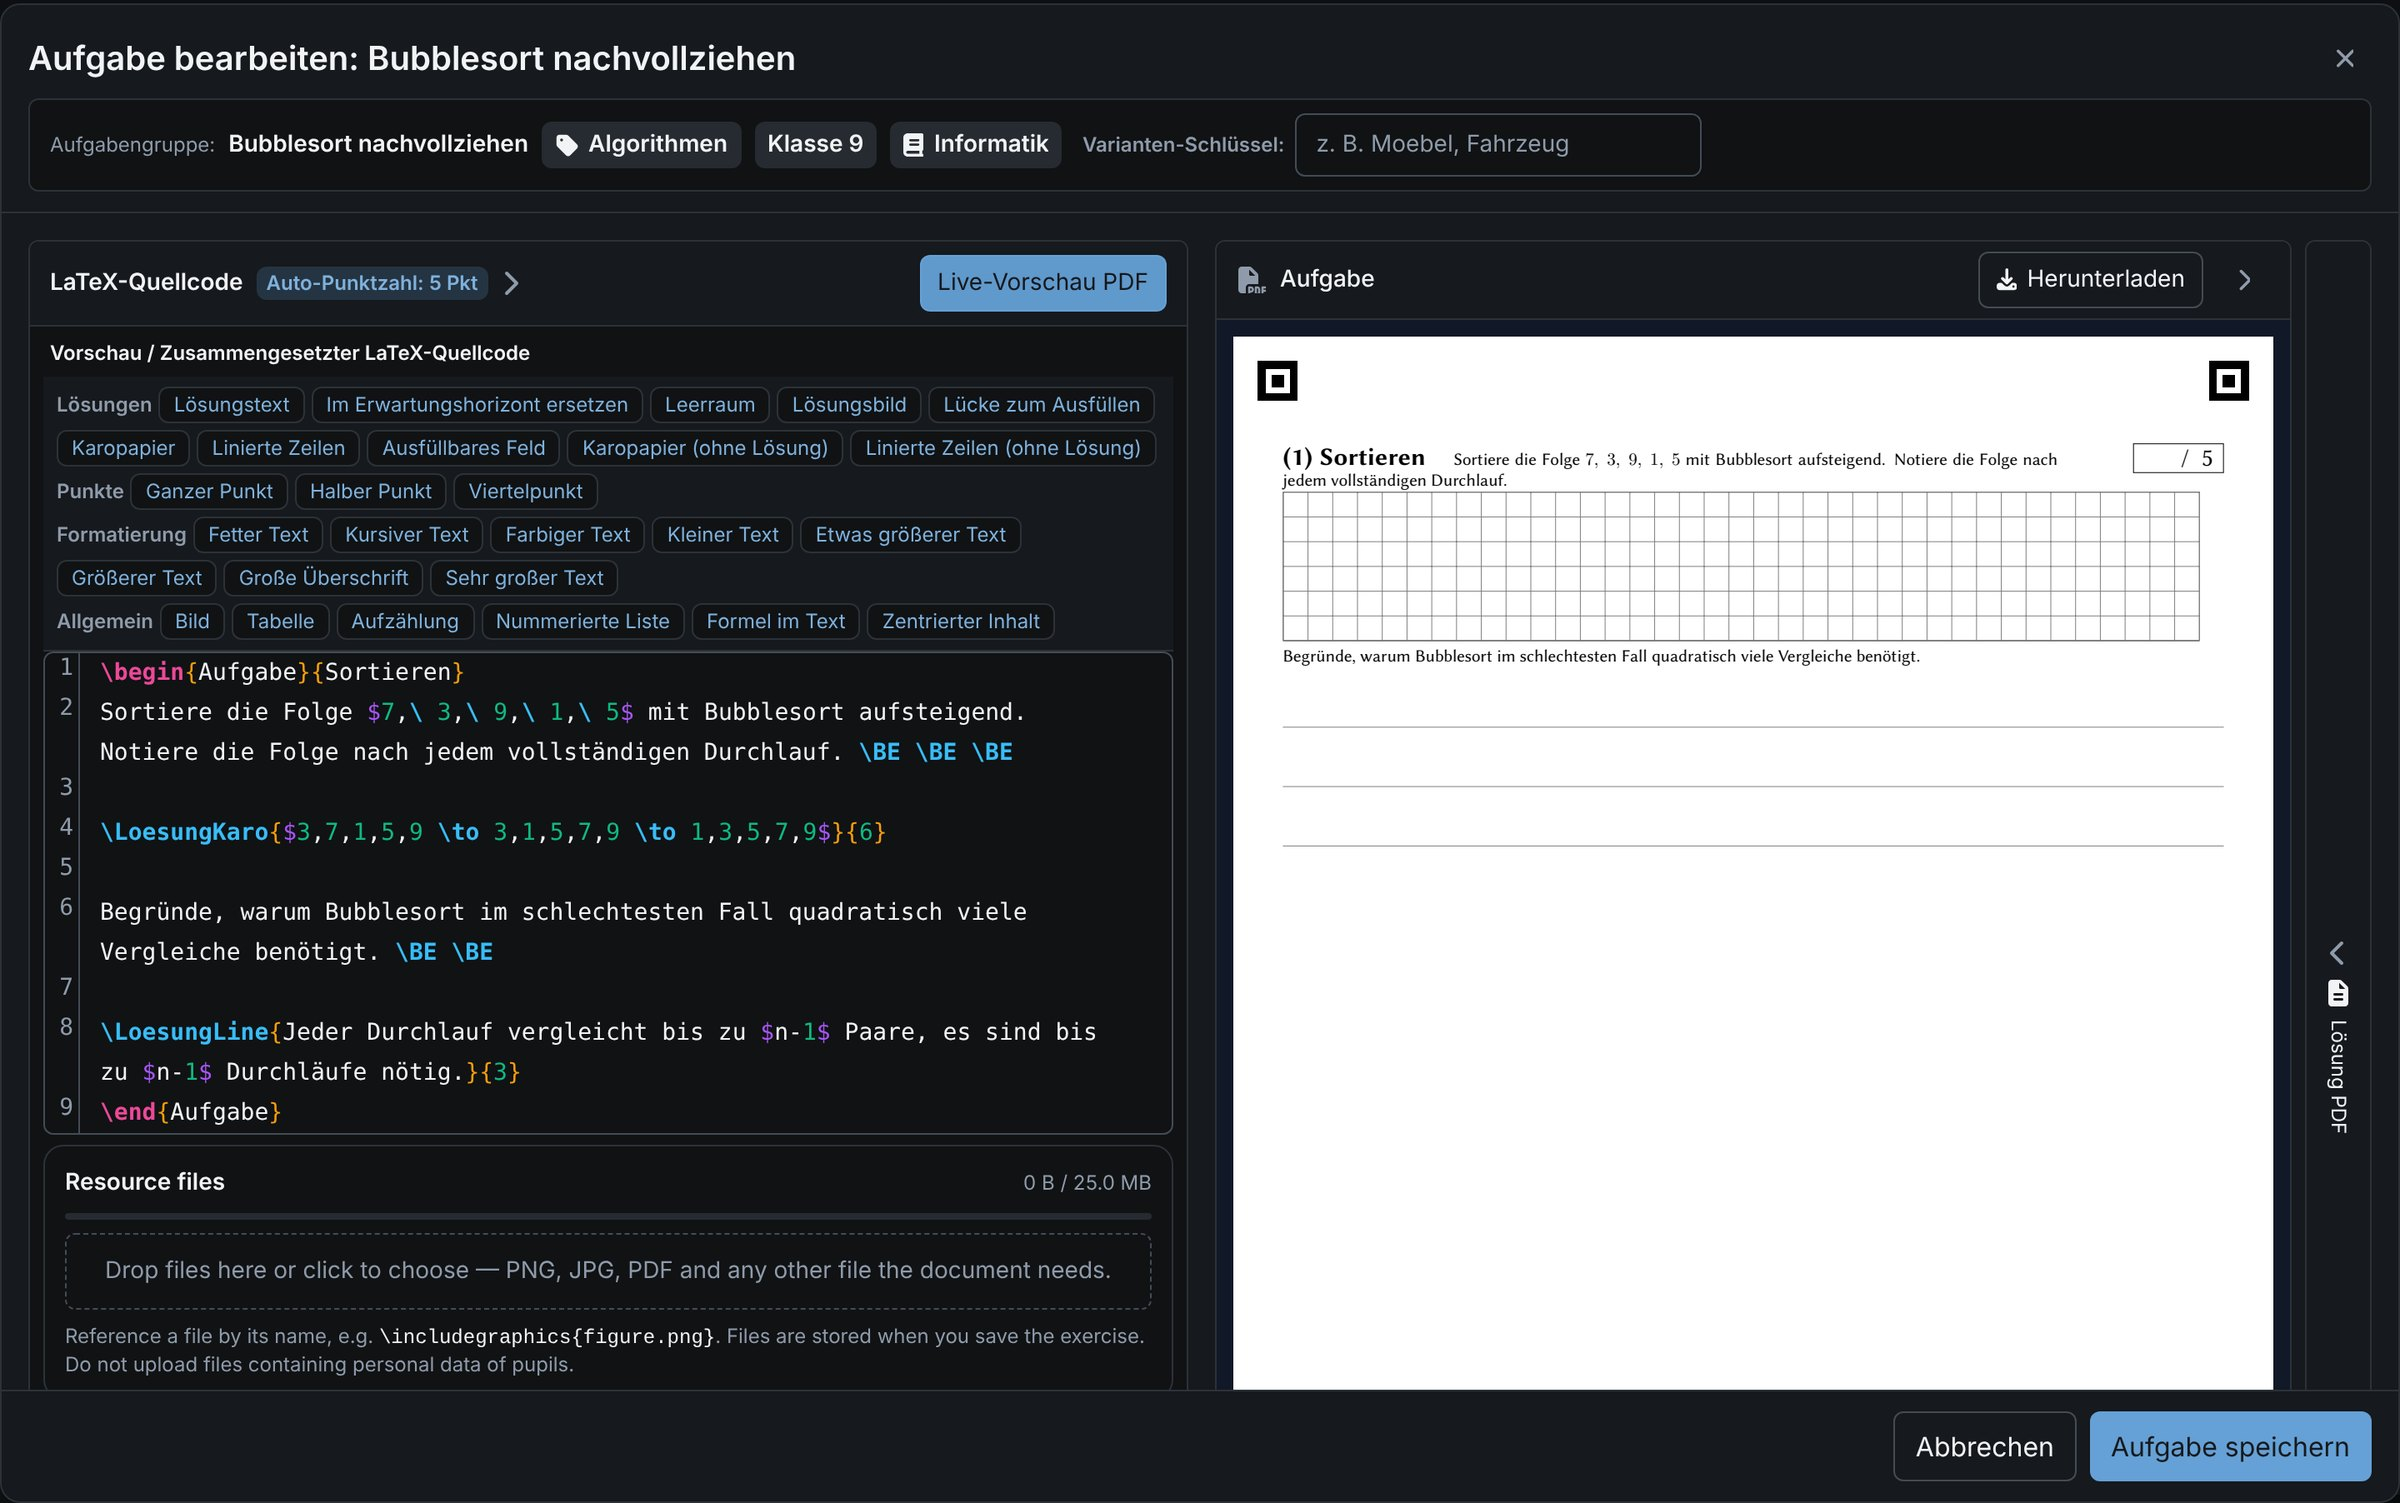
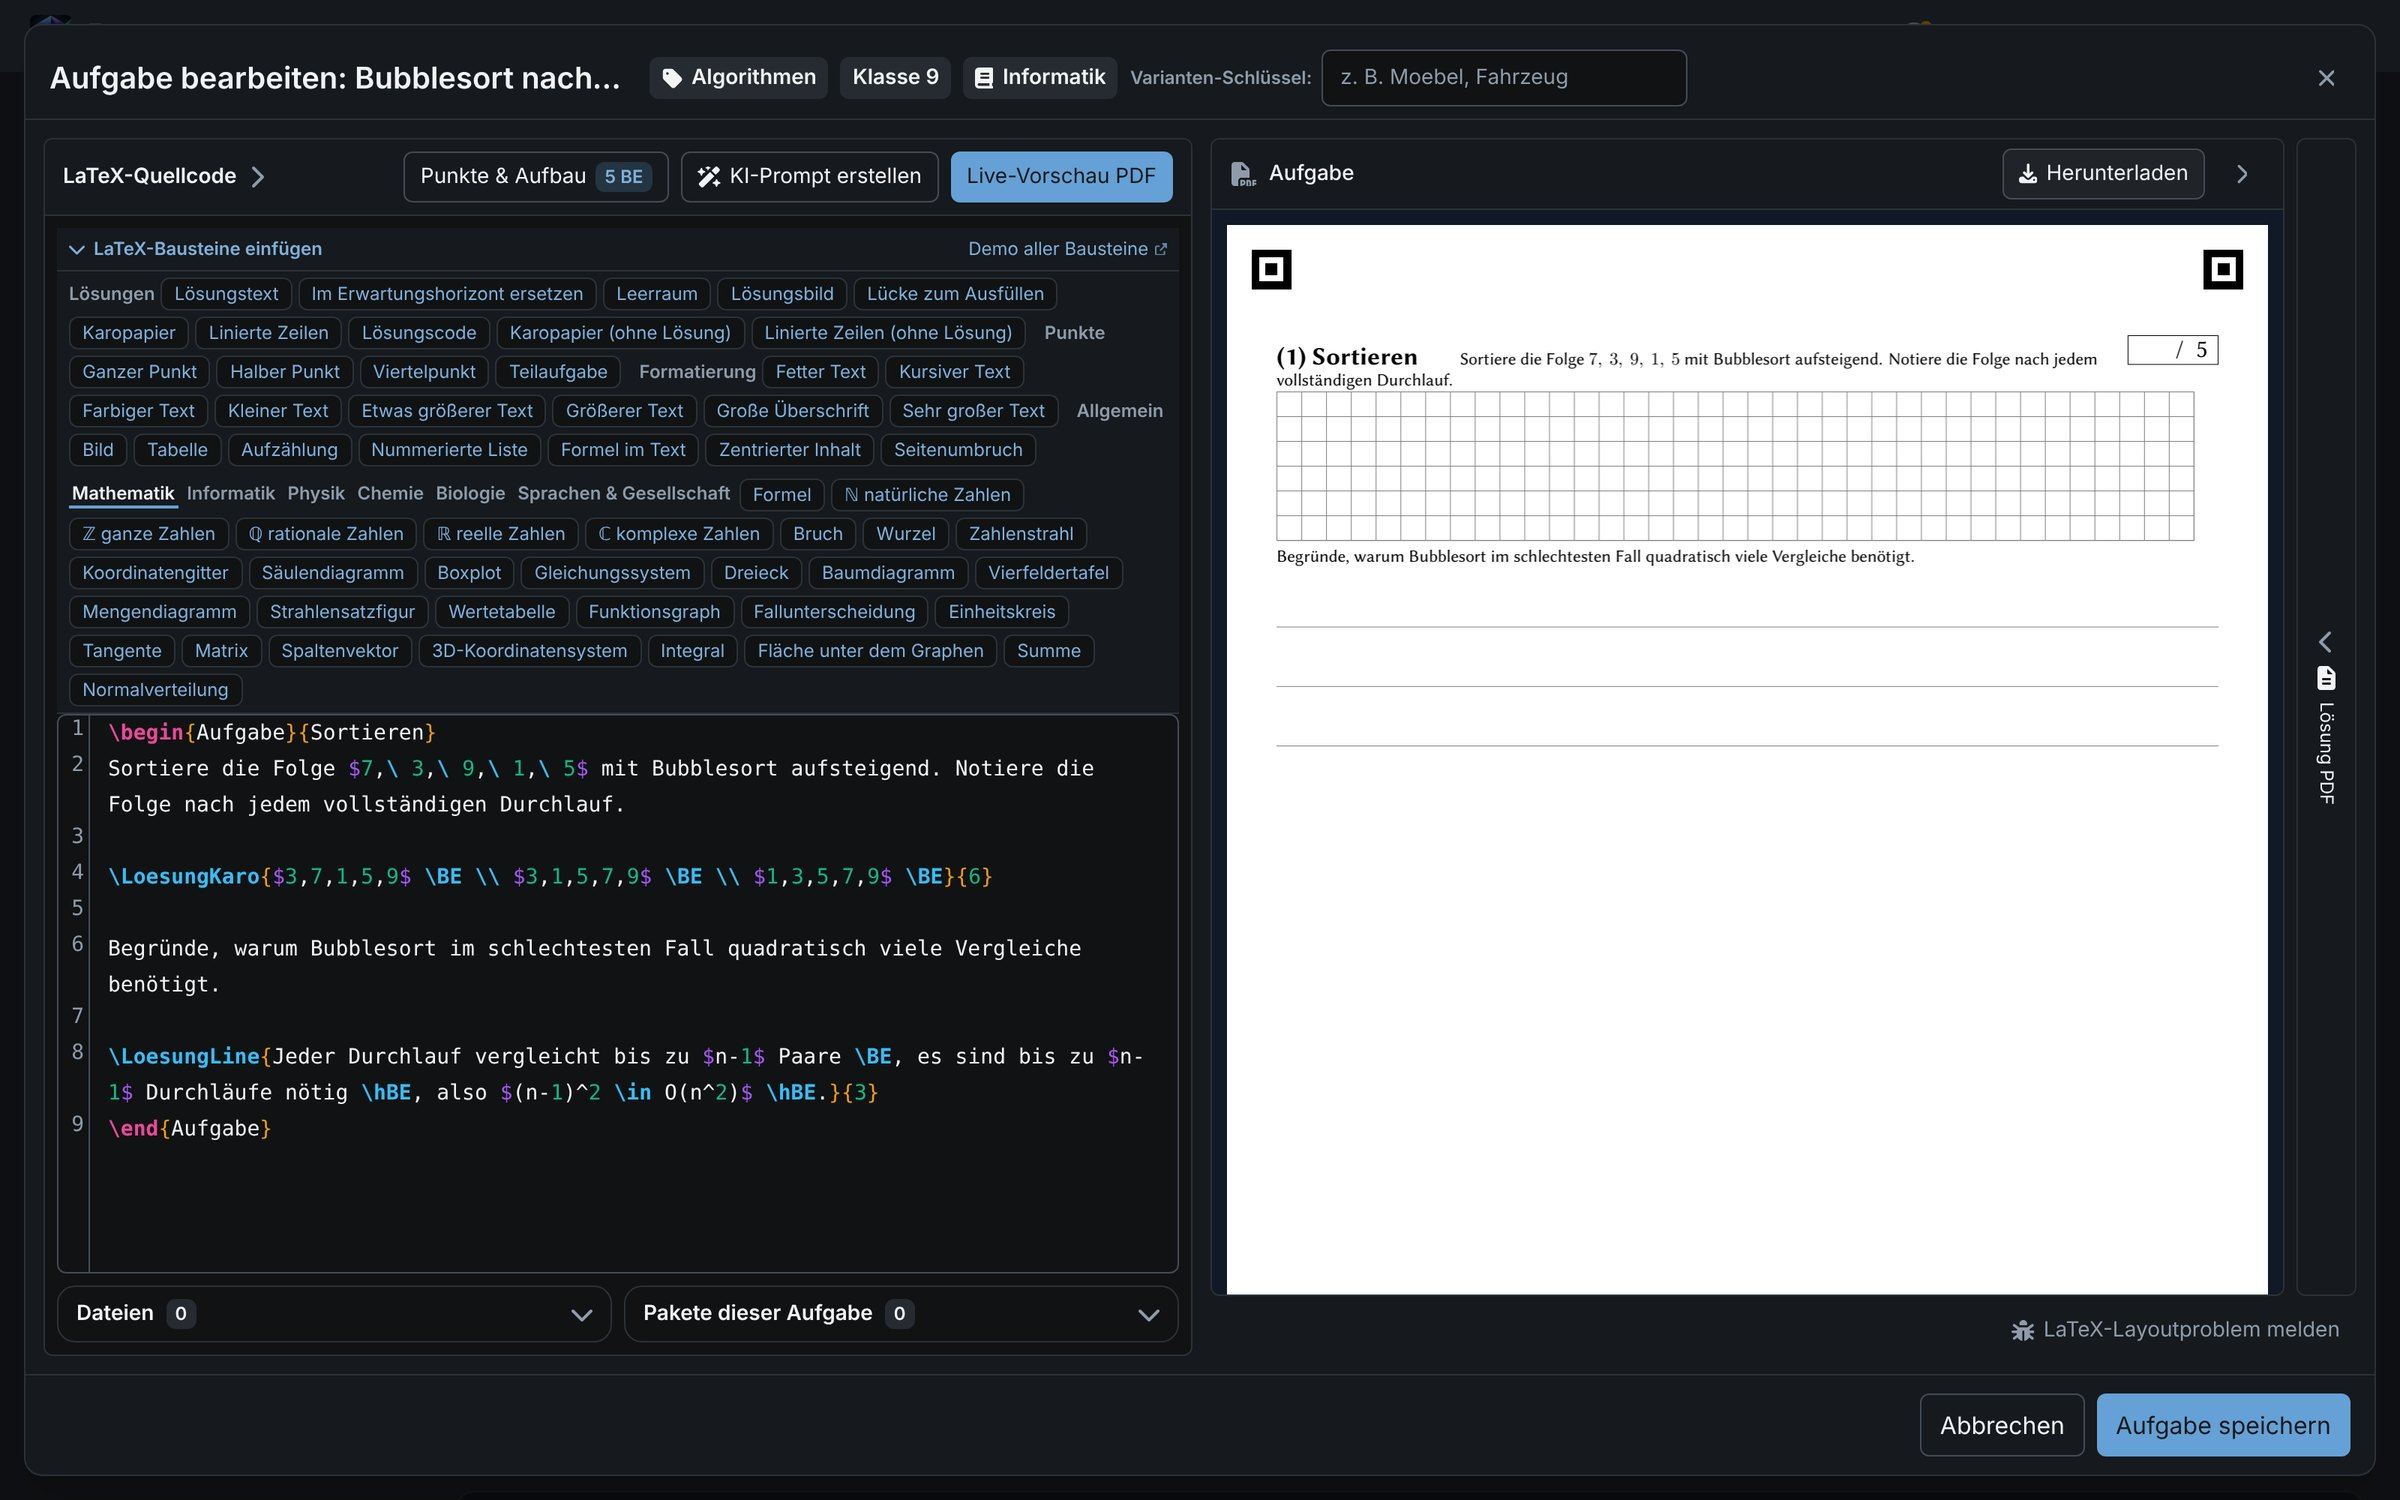
Retake the outdated screenshots from the demo instance
Grading, MC review, results, analytics, scan import, scanned sheets, the editors, settings, security, first sign-in, share confirmation and the poster tour images now show the current UI. The demo scans were regenerated with correctly placed handwriting and re-graded; the poster grading booklet is stamped on all three free tasks.

Claude-Session: https://claude.ai/code/session_01HkEWDM3aYPvWDauXNzMX4X

Changed region(s): [[0.0, 0.0307, 1.0, 1.0]]

diff --git a/docs/demo-instance/README.md b/docs/demo-instance/README.md
@@ -28,7 +28,7 @@ Results: *10b* (26 pupils, Gruppe A) and *10a* (25 pupils, Gruppe B, weaker on t
 
 `capture.mjs exam-new` (and `tour-exam-new`) creates a real exam "Leistungsnachweis Informatik 10c", because the new-exam flow saves before picking exercises; delete it afterwards. Run `capture.mjs` with one name per group: a failing step aborts the rest. Without Tectonic on the host, set `bg_latex_compilation` to `local` in the Playwright profiles so exams compile in the browser.
 
-**Known gap:** the exam page now lists MC groups first, but `mkscans.py` still places the handwriting for the old order (MC group last), so a fresh seed writes over the wrong questions on the *10b*/*10a* sheets. The committed `06`–`08`, `17`, `18` and the matching tour crops come from an earlier run; retake them only after `mkscans.py` follows the new layout.
+`mkscans.py` places the handwriting under each prompt as found in the compiled exam and reads the MC boxes from every page, so the exercise order of the exam does not matter. The stamp positions in `seed-results.mjs` (showcase) and `capture.mjs` (`tour-grading`) are screen coordinates for the current layout; check them after a layout change.
 
 The demo exercises put `\BE` inside their solutions (checkmark per scored part). The student sheet counts those only with the `\LSG` fix from PR #84; without it the score boxes read "/ 0".
 

diff --git a/docs/screenshots/pitch/README.md b/docs/screenshots/pitch/README.md
@@ -13,7 +13,7 @@ Real captures of the current UI (German, dark theme to match the decks, 1600×10
 | `07-mc-review.jpg` | MC detection review of one answer |
 | `08-results.jpg`, `08b-paper-entry.jpg` | Grade overview; points of a paper-graded class pasted from Excel |
 | `09-analytics.jpg`, `09b-variant-comparison.jpg` | Cross-exam analytics; Gruppe A vs. B comparison |
-| `10-settings-storage.jpg`, `11-security.jpg` | Storage mode and LaTeX engine; sign-in factors (older settings layout; the user guide uses [`../guide/`](../guide/README.md)) |
+| `10-settings-storage.jpg`, `11-security.jpg` | Storage mode; sign-in factors (cropped from the `guide-settings-storage` and `guide-security` captures) |
 | `12-signin-second-factor.jpg`, `13-storage-choice.jpg` | Mandatory second factor and storage choice at first sign-in |
 | `14-admin-accounts.jpg`, `15-admin-approvals.jpg`, `16-admin-domains.jpg` | Admin user management |
 | `17-scanned-sheet.jpg`, `18-scanned-sheet-mc.jpg` | Synthetic scanned exam pages |
